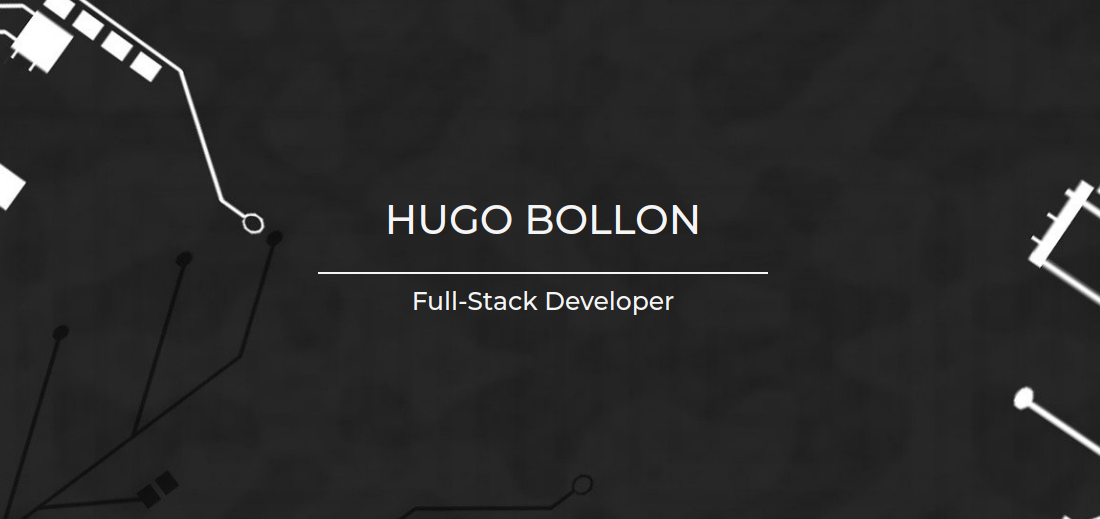
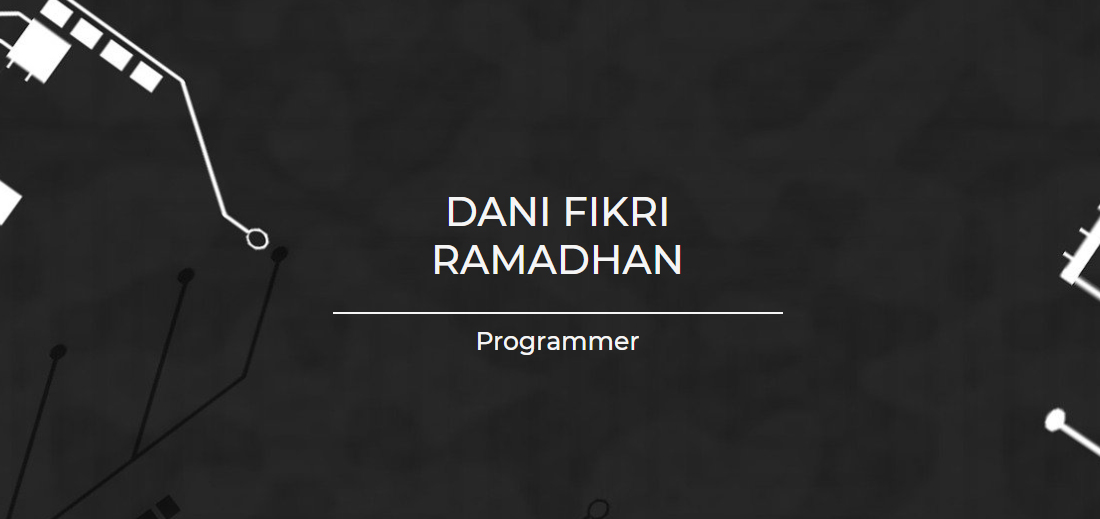
Updates

diff --git a/index.html b/index.html
@@ -2,4 +2,4 @@
 		function gtag() { dataLayer.push(arguments); }
 		gtag('js', new Date());
 
-		gtag('config', 'UA-148902588-2');</script><meta charset="utf-8"><meta http-equiv="X-UA-Compatible" content="IE=edge"><meta name="viewport" content="width=device-width,initial-scale=1"><meta name="description" content="Welcome to my personnal portfolio builded with VueJS !"><meta property="og:title" content="Hugo Bollon Portfolio"><meta property="og:type" content="website"><meta property="og:url" content="https://hugobollon.me/"><meta property="og:locale" content="en_US"><meta property="og:image" content="/portfolio/og.png"><meta property="og:description" content="Welcome to my personnal portfolio builded with VueJS !"><link rel="icon" href="/portfolio/favicon.ico"><title>Dani Fikri Ramadhan</title><link href="/portfolio/css/app.8f63e61c.css" rel="preload" as="style"><link href="/portfolio/css/chunk-vendors.c76dc876.css" rel="preload" as="style"><link href="/portfolio/js/app.80fa99dc.js" rel="preload" as="script"><link href="/portfolio/js/chunk-vendors.842e338f.js" rel="preload" as="script"><link href="/portfolio/css/chunk-vendors.c76dc876.css" rel="stylesheet"><link href="/portfolio/css/app.8f63e61c.css" rel="stylesheet"></head><body style="height: 100%;"><noscript><strong>We're sorry but portfolio-vuejs doesn't work properly without JavaScript enabled. Please enable it to continue.</strong></noscript><div id="app"></div><script src="/portfolio/js/chunk-vendors.842e338f.js"></script><script src="/portfolio/js/app.80fa99dc.js"></script></body></html>
+		gtag('config', 'UA-148902588-2');</script><meta charset="utf-8"><meta http-equiv="X-UA-Compatible" content="IE=edge"><meta name="viewport" content="width=device-width,initial-scale=1"><meta name="description" content="Welcome to my personnal portfolio builded with VueJS !"><meta property="og:title" content="Dani Fikri Ramadhan Portfolio"><meta property="og:type" content="website"><meta property="og:url" content="https://danifik07.github.io/portfolio/"><meta property="og:locale" content="en_US"><meta property="og:image" content="/portfolio/og.png"><meta property="og:description" content="Welcome to my personnal portfolio builded with VueJS !"><link rel="icon" href="/portfolio/favicon.ico"><title>Dani Fikri Ramadhan</title><link href="/portfolio/css/app.8f63e61c.css" rel="preload" as="style"><link href="/portfolio/css/chunk-vendors.c76dc876.css" rel="preload" as="style"><link href="/portfolio/js/app.80fa99dc.js" rel="preload" as="script"><link href="/portfolio/js/chunk-vendors.842e338f.js" rel="preload" as="script"><link href="/portfolio/css/chunk-vendors.c76dc876.css" rel="stylesheet"><link href="/portfolio/css/app.8f63e61c.css" rel="stylesheet"></head><body style="height: 100%;"><noscript><strong>We're sorry but portfolio-vuejs doesn't work properly without JavaScript enabled. Please enable it to continue.</strong></noscript><div id="app"></div><script src="/portfolio/js/chunk-vendors.842e338f.js"></script><script src="/portfolio/js/app.80fa99dc.js"></script></body></html>
